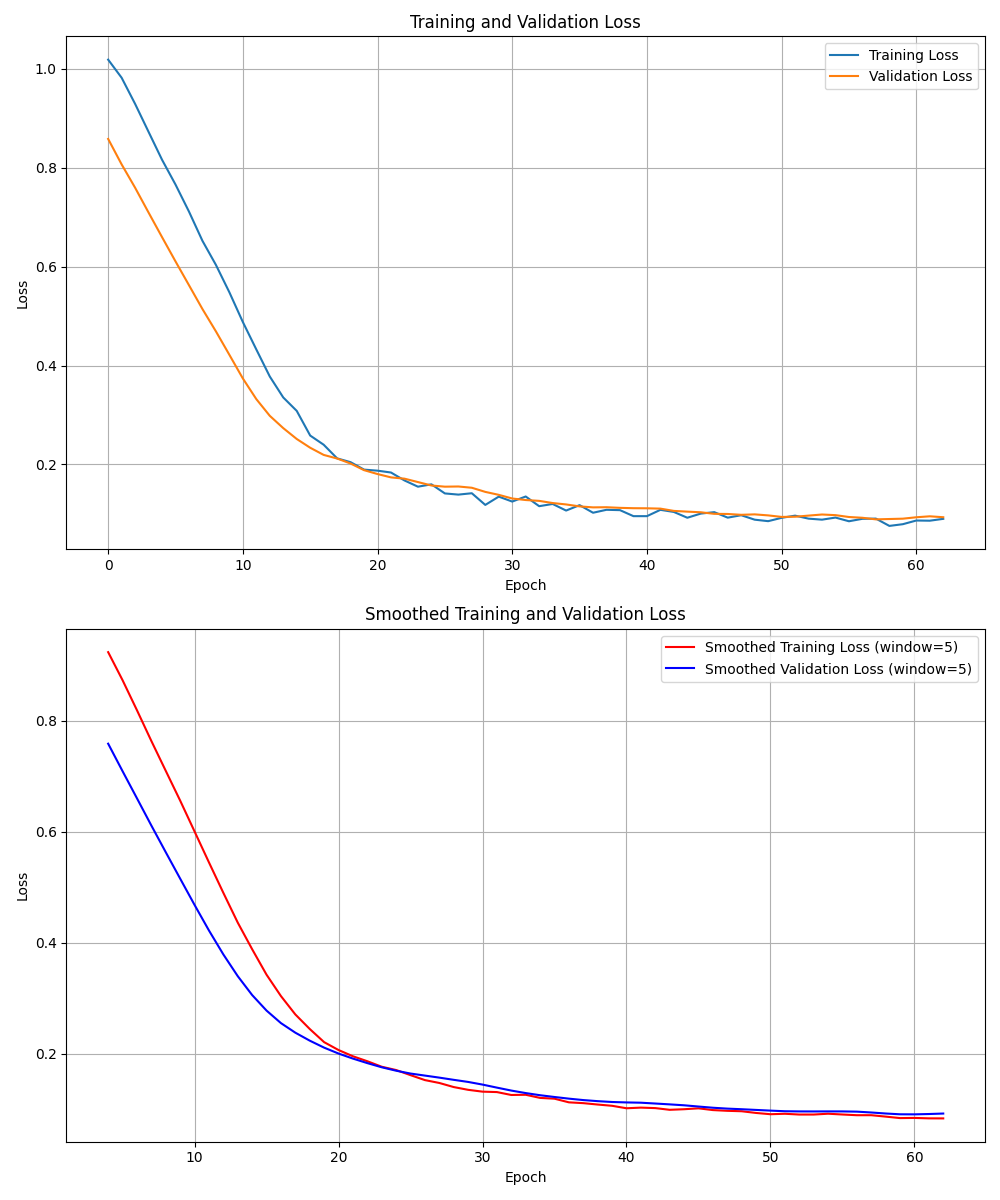
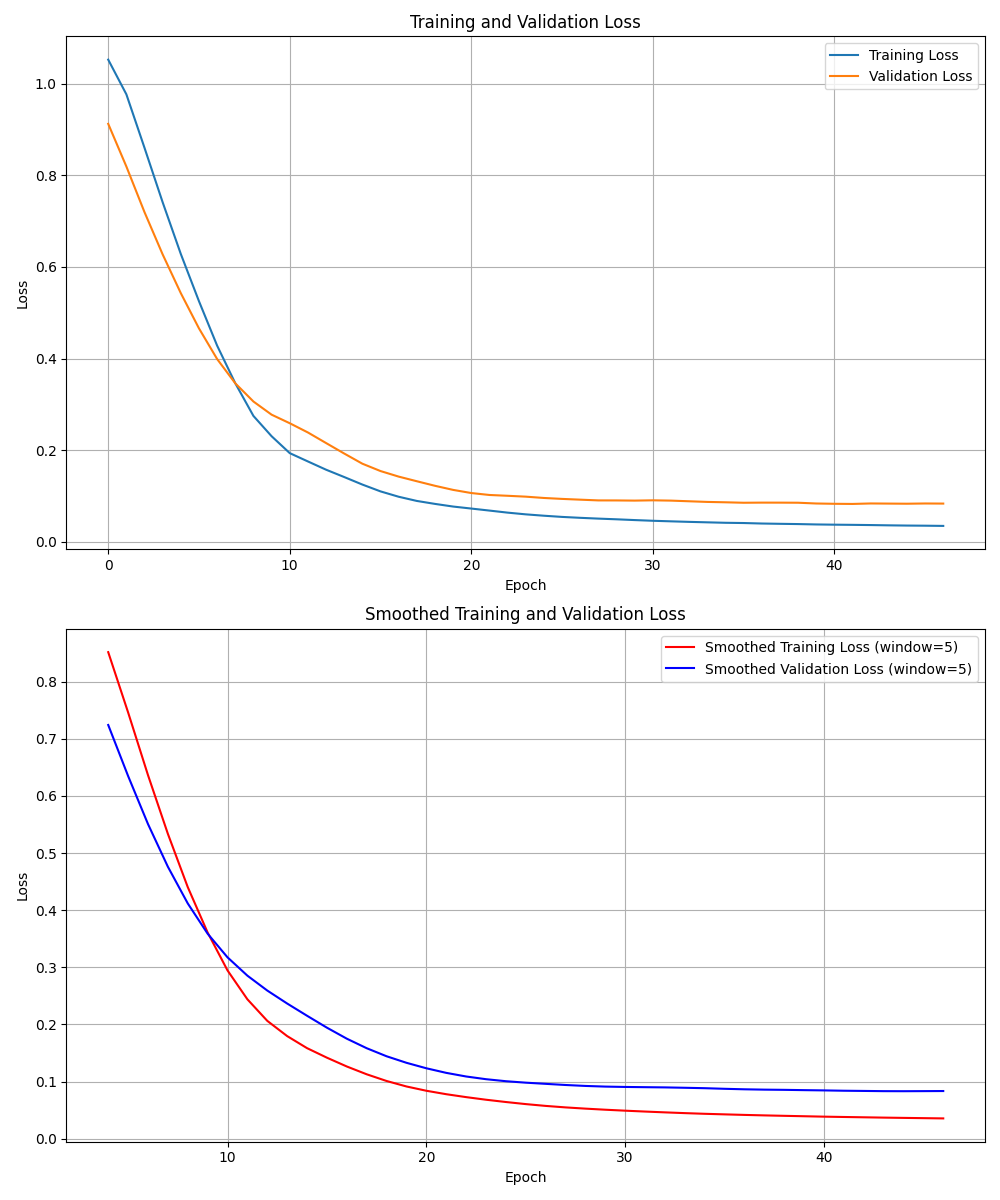
Rimosso secondo addestramento migliori modelli per fold

diff --git a/CUP_Models/NN/NN modulare/cross_validation.py b/CUP_Models/NN/NN modulare/cross_validation.py
@@ -8,7 +8,6 @@ def CV(X_train, X_test, Y_train, Y_test):
     fold_no = 1
     hyperparameters_summary = []
     best_val_loss = float('inf')  # Inizializza con infinito
-    best_history = None
     for train_idx, val_idx in kfold.split(X_train):
         x_train, x_val = X_train[train_idx], X_train[val_idx]
         y_train, y_val = Y_train[train_idx], Y_train[val_idx]
@@ -18,22 +17,19 @@ def CV(X_train, X_test, Y_train, Y_test):
         best_hps = tuner.get_best_hyperparameters(num_trials=1)[0]
         batch_size = best_hps.get('batch_size')
         
-        history = model.fit(
-            x_train, y_train,
-            batch_size=batch_size,
-            epochs=200,
-            validation_data=(x_val, y_val),
-            callbacks=[keras.callbacks.EarlyStopping('val_loss', patience=5)]
-        )
+        best_model = tuner.get_best_models(num_models=1)[0]
+        
+        val_loss= best_model.evaluate(x_val, y_val, verbose=0)
+        train_loss = best_model.evaluate(x_train, y_train, verbose=0)
         
         best_hps_dict = best_hps.values
         best_hps_dict['fold'] = fold_no  # Aggiungi il numero del fold
-        best_hps_dict['train_loss'] = history.history['loss'][-1]
-        best_hps_dict['val_loss'] = history.history['val_loss'][-1]
+        best_hps_dict['train_loss'] = train_loss
+        best_hps_dict['val_loss'] = val_loss
         hyperparameters_summary.append(best_hps_dict)
 
-        if history.history['val_loss'][-1]< best_val_loss:
-            best_val_loss = history.history['val_loss'][-1]
+        if val_loss < best_val_loss:
+            best_val_loss = val_loss
             best_hparams = best_hps
     
         fold_no += 1

diff --git a/CUP_Models/NN/NN modulare/main.py b/CUP_Models/NN/NN modulare/main.py
@@ -1,10 +1,5 @@
-from sklearn.model_selection import KFold, train_test_split
 from load_data import load_and_preprocess_data_CUP
-from model_builder import build_model
-from model_training import train_model
 from plots import plot_training_history_CUP
-import keras
-import pandas as pd
 from cross_validation import CV
 
 def main():
